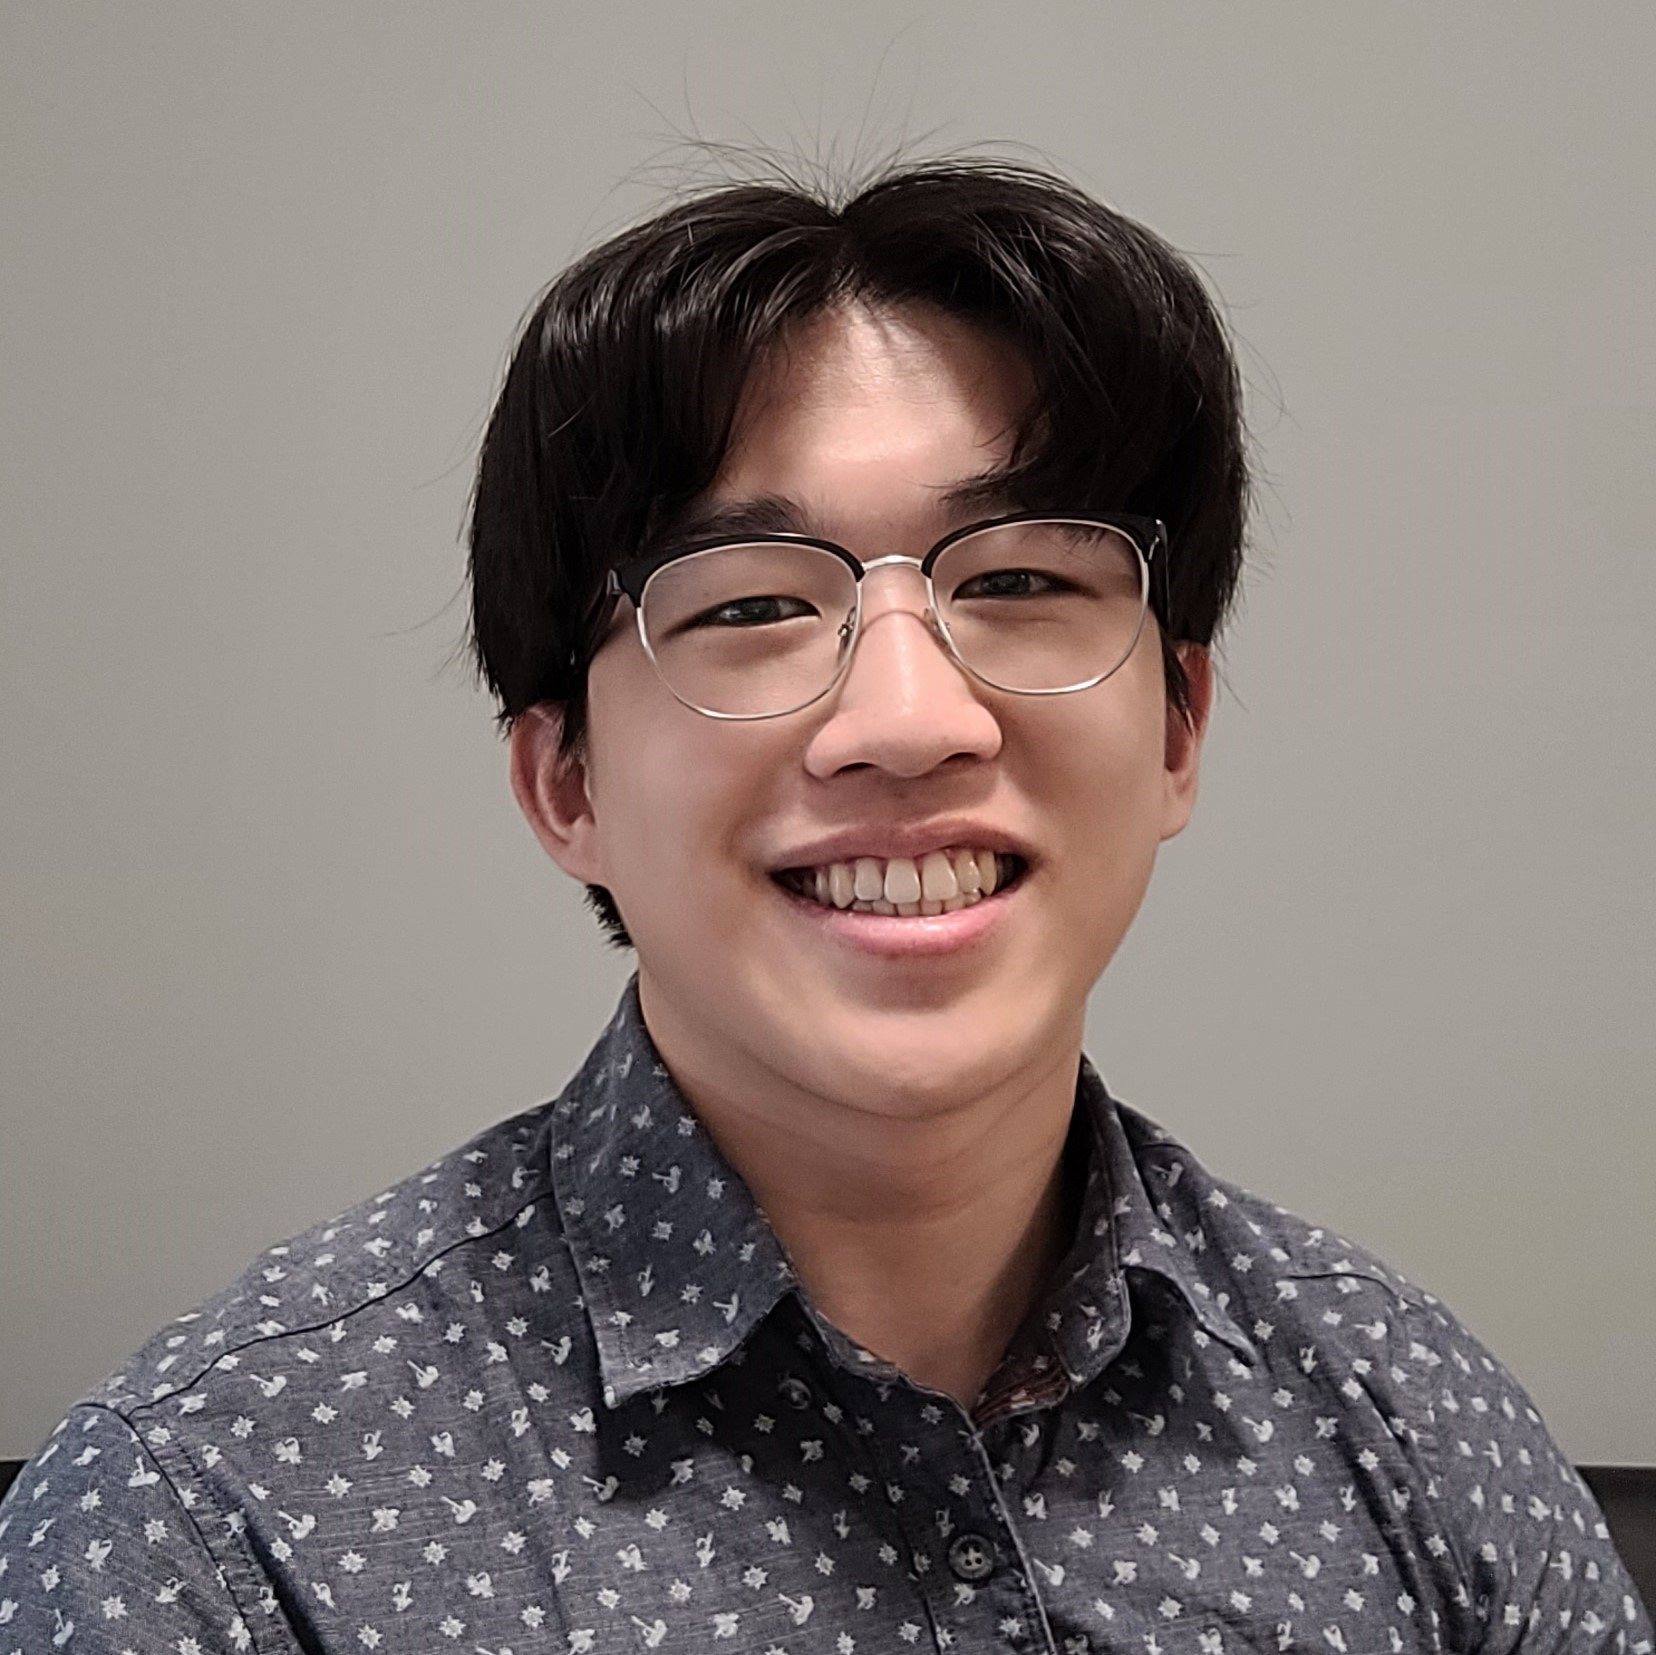
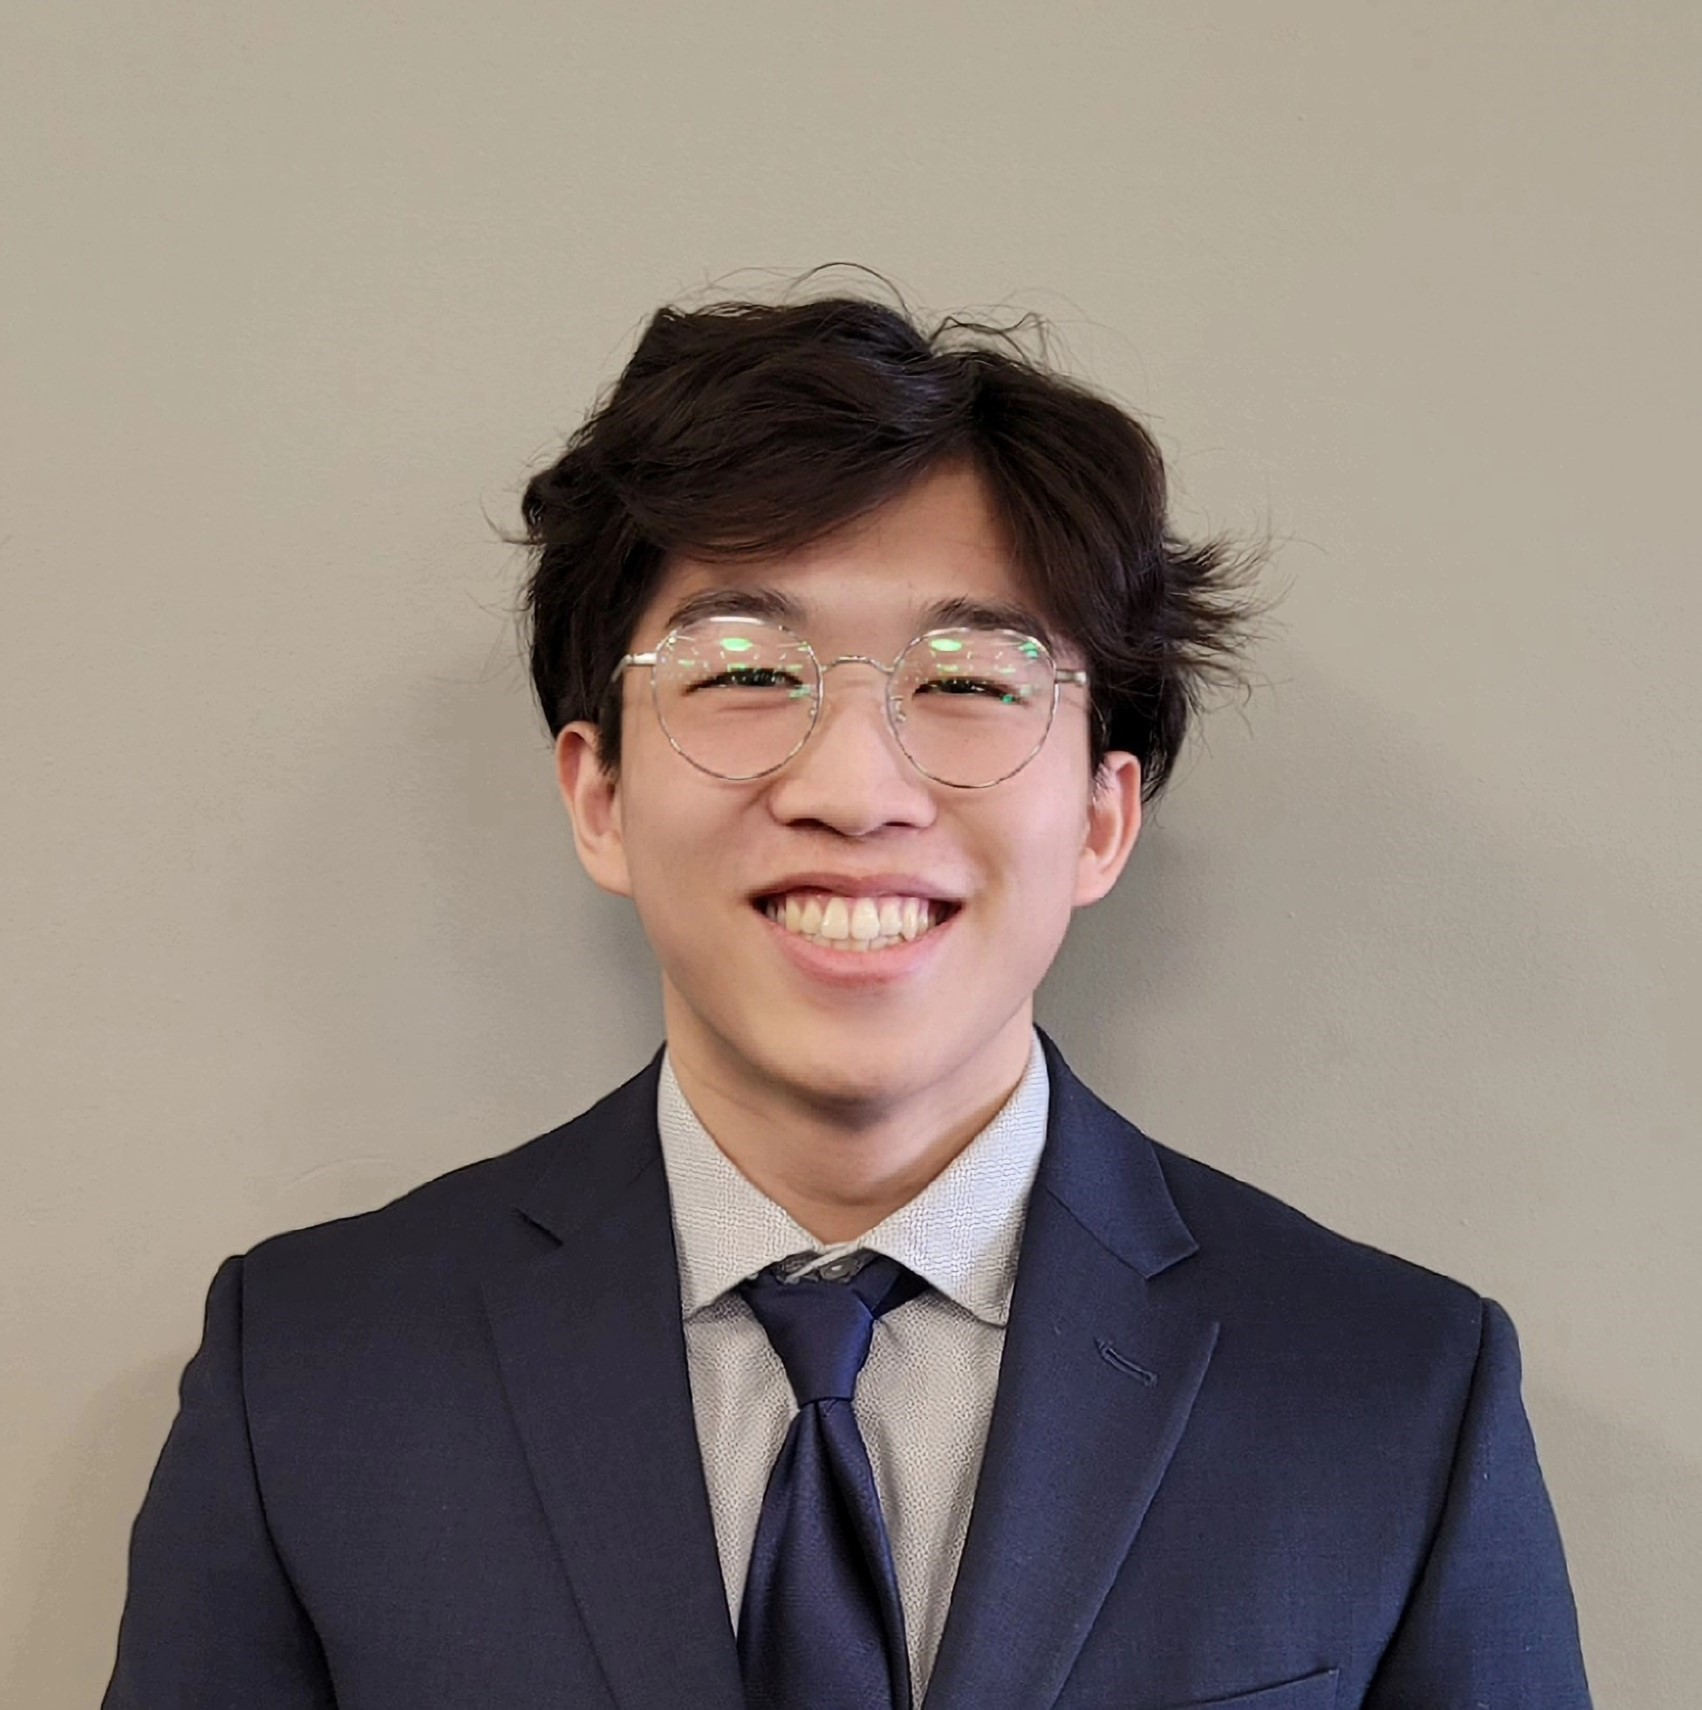
updated photo and centering

diff --git a/src/components/intro/intro.scss b/src/components/intro/intro.scss
@@ -1,119 +1,115 @@
 @import "../../global.scss";
 
 .intro {
-    background-color: white;
-    display: flex;
+  background-color: white;
+  display: flex;
 
-    @include mobile {
-        flex-direction: column;
-        align-items: center;
+  @include mobile {
+    flex-direction: column;
+    align-items: center;
+  }
+
+  .left {
+    flex: 0.5;
+    overflow: hidden;
+
+    .me {
+      width: 700px;
+      height: 700px;
+      background-color: navy;
+      border-radius: 50%;
+      display: flex;
+      align-items: center;
+      justify-content: center;
+      float: right;
+
+      @include mobile {
+        align-items: flex-start;
+      }
+
+      img {
+        height: 90%;
+        border-radius: 50%;
+
+        @include mobile {
+          height: 50%;
+        }
+      }
+    }
+  }
+
+  .right {
+    flex: 0.5;
+    position: relative;
+
+    .wrapper {
+      width: 100%;
+      height: 100%;
+      padding-left: 50px;
+      display: flex;
+      flex-direction: column;
+      justify-content: center;
+
+      @include mobile {
+        margin-top: 50px;
+        height: 50%;
+        padding-left: 0px;
+      }
+
+      h1 {
+        font-size: 60px;
+        margin: 10px 0;
+
+        @include mobile {
+          font-size: 40px;
+        }
+      }
+
+      .hellocontainer {
+        height: 50px;
+        justify-content: center;
+
+        span {
+          font-size: inherit;
+          color: crimson;
+        }
+      }
+
+      h2 {
+        font-size: 35px;
+
+        @include mobile {
+          font-size: 20px;
+        }
+      }
+
+      .desccontainer {
+        width: 300px;
+        justify-content: center;
+
+        span {
+          font-size: inherit;
+          color: crimson;
+        }
+      }
     }
 
-    .left {
-        flex: 0.5;
-        overflow: hidden;
+    a {
+      position: absolute;
+      bottom: 10px;
+      left: 40%;
 
+      .icon {
+        color: inherit;
+        font-size: 50px;
+        animation: arrowBlink 2s infinite;
+      }
 
-        .me {
-            width: 700px;
-            height: 700px;
-            background-color: navy;
-            border-radius: 50%;
-            display: flex;
-            align-items: flex-end;
-            justify-content: center;
-            float: right;
-
-            @include mobile {
-                align-items: flex-start;
-            }
-
-            img {
-                height: 90%;
-                border-radius: 50%;
-                margin-top: 35px;
-
-                @include mobile {
-                    height: 50%;
-                }
-            }
-
+      @keyframes arrowBlink {
+        100% {
+          opacity: 0;
         }
+      }
     }
-
-    .right {
-        flex: 0.5;
-        position: relative;
-
-        .wrapper {
-            width: 100%;
-            height: 100%;
-            padding-left: 50px;
-            display: flex;
-            flex-direction: column;
-            justify-content: center;
-
-
-            @include mobile {
-                margin-top: 50px;
-                height: 50%;
-                padding-left: 0px;
-            }
-
-            h1 {
-                font-size: 60px;
-                margin: 10px 0;
-
-                @include mobile {
-                    font-size: 40px;
-                }
-            }
-
-            .hellocontainer {
-                height: 50px;
-                justify-content: center;
-
-                span {
-                    font-size: inherit;
-                    color: crimson;
-                }
-            }
-
-            h2 {
-                font-size: 35px;
-
-                @include mobile {
-                    font-size: 20px;
-                }
-            }
-
-            .desccontainer {
-                width: 300px;
-                justify-content: center;
-
-                span {
-                    font-size: inherit;
-                    color: crimson;
-                }
-            }
-        }
-
-        a {
-            position: absolute;
-            bottom: 10px;
-            left: 40%;
-
-            .icon {
-                color: inherit;
-                font-size: 50px;
-                animation: arrowBlink 2s infinite;
-            }
-
-            @keyframes arrowBlink {
-                100% {
-                    opacity: 0;
-                }
-            }
-        }
-    }
+  }
 }
